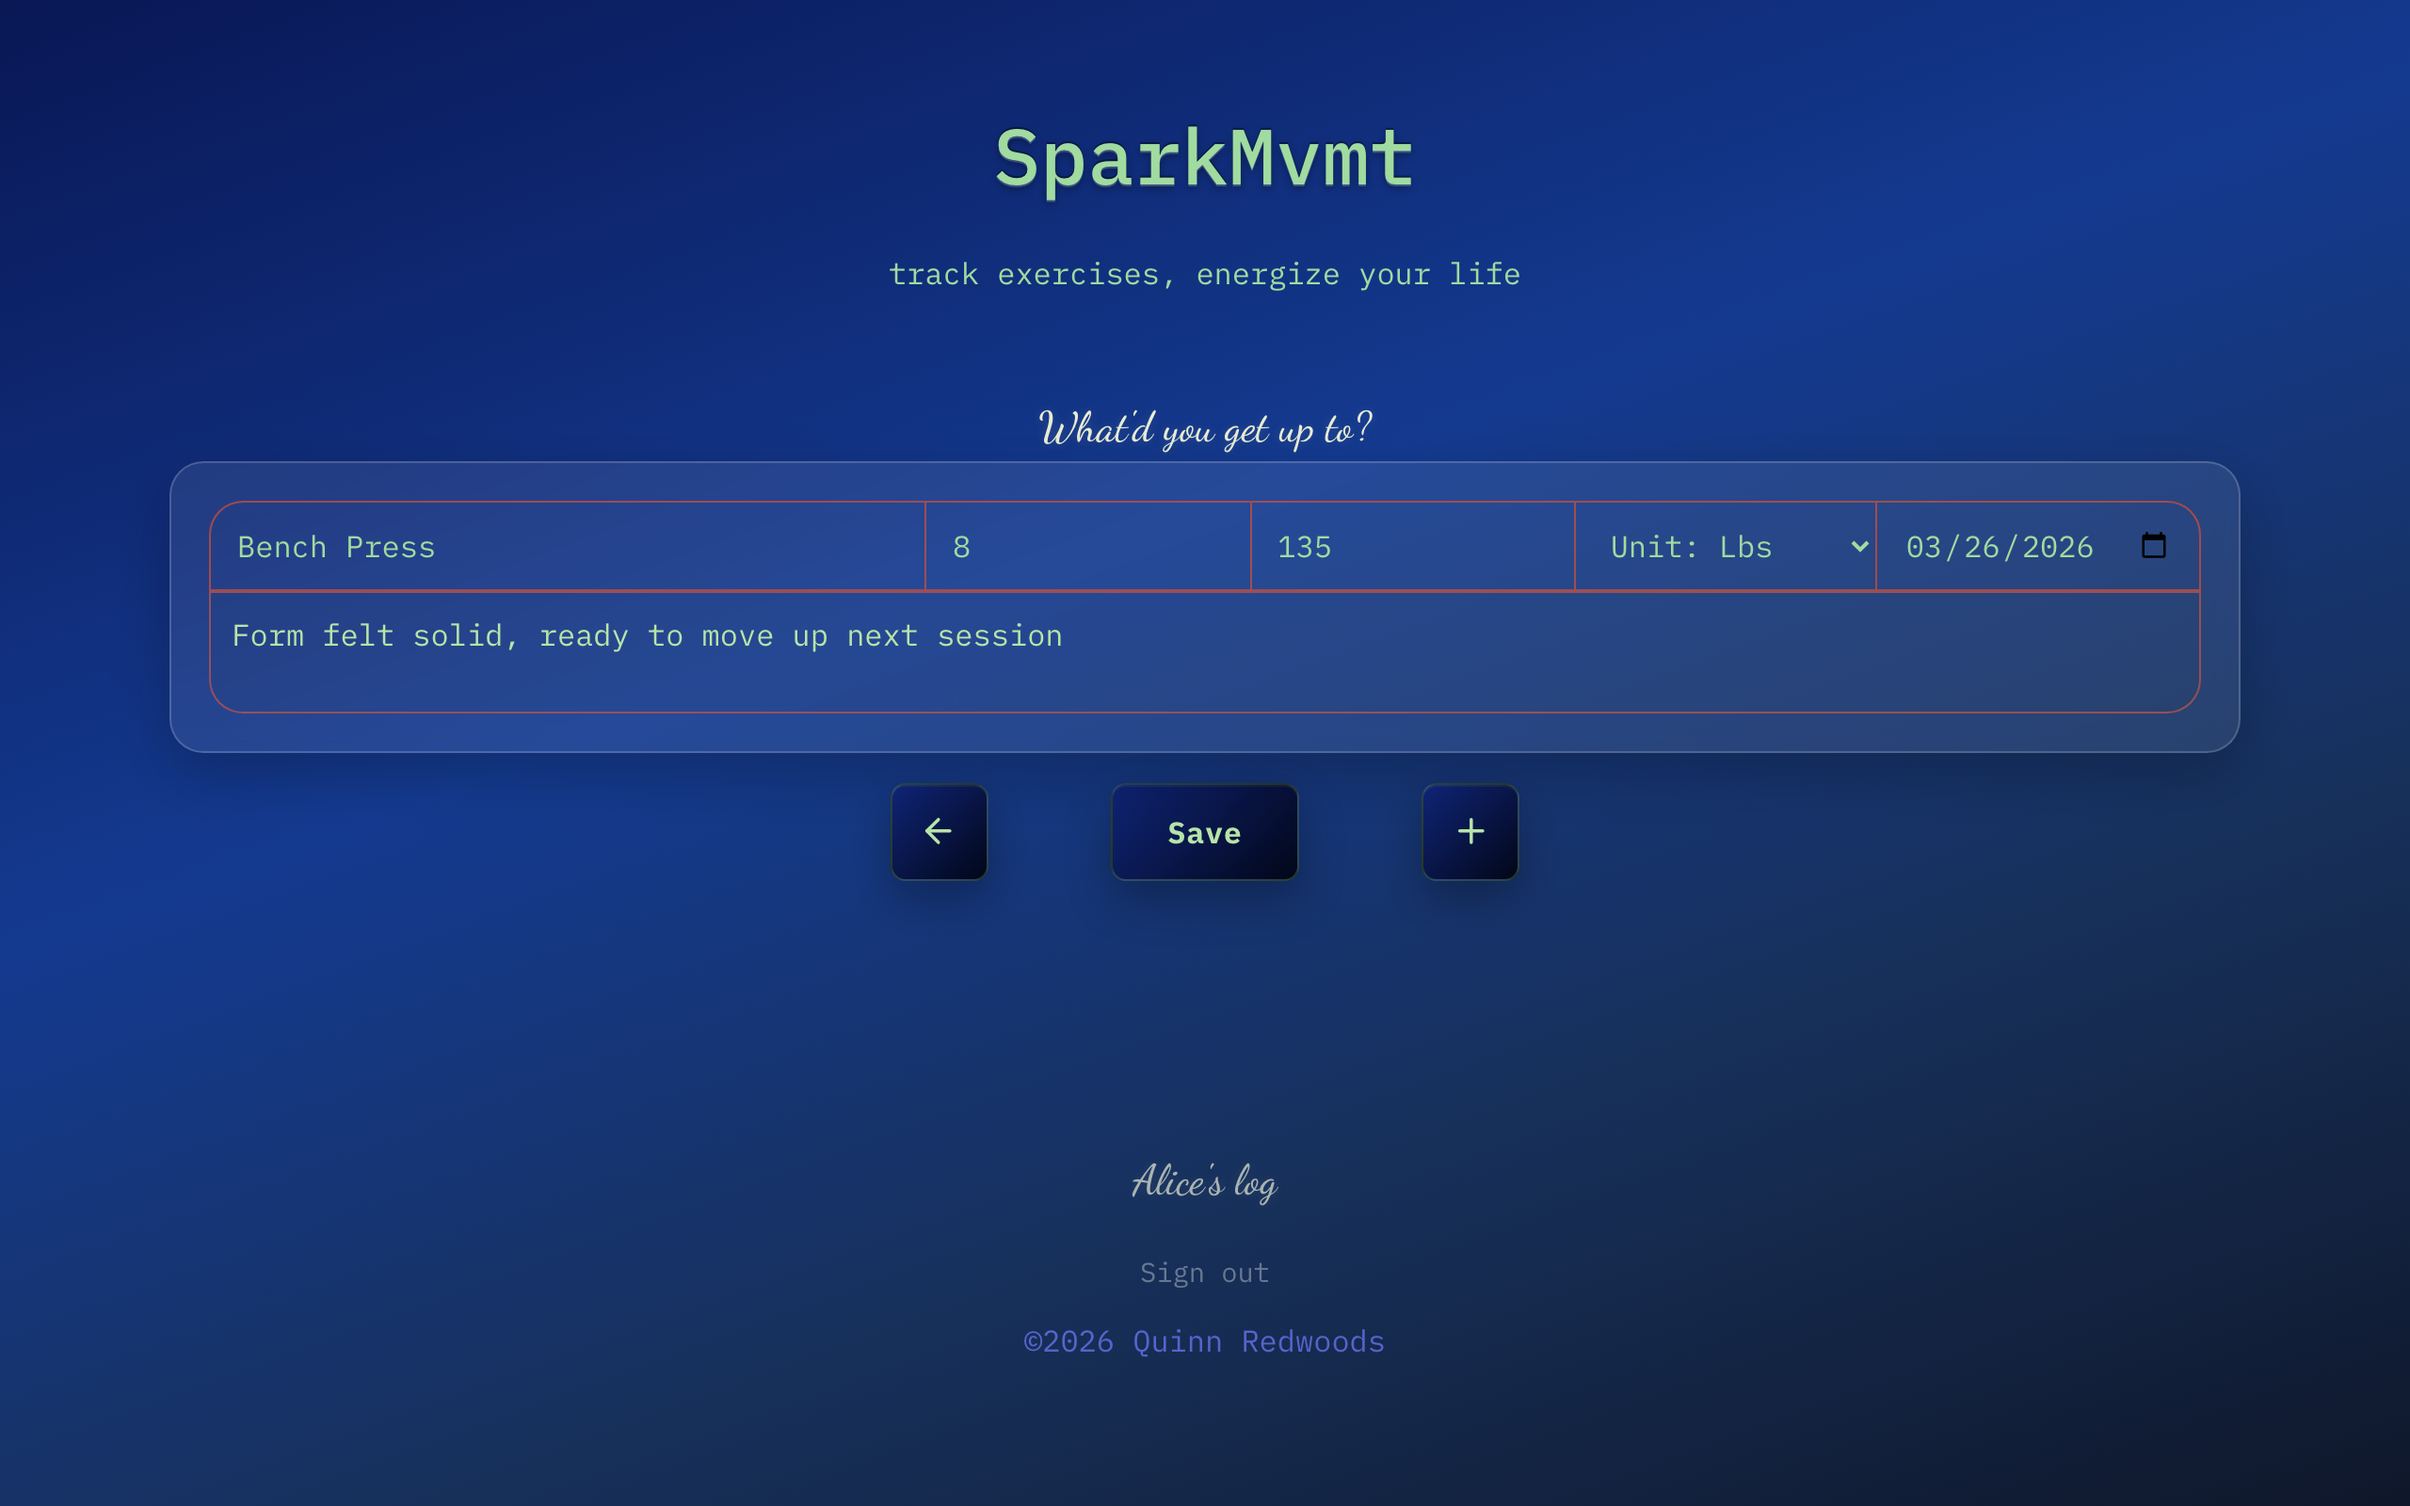
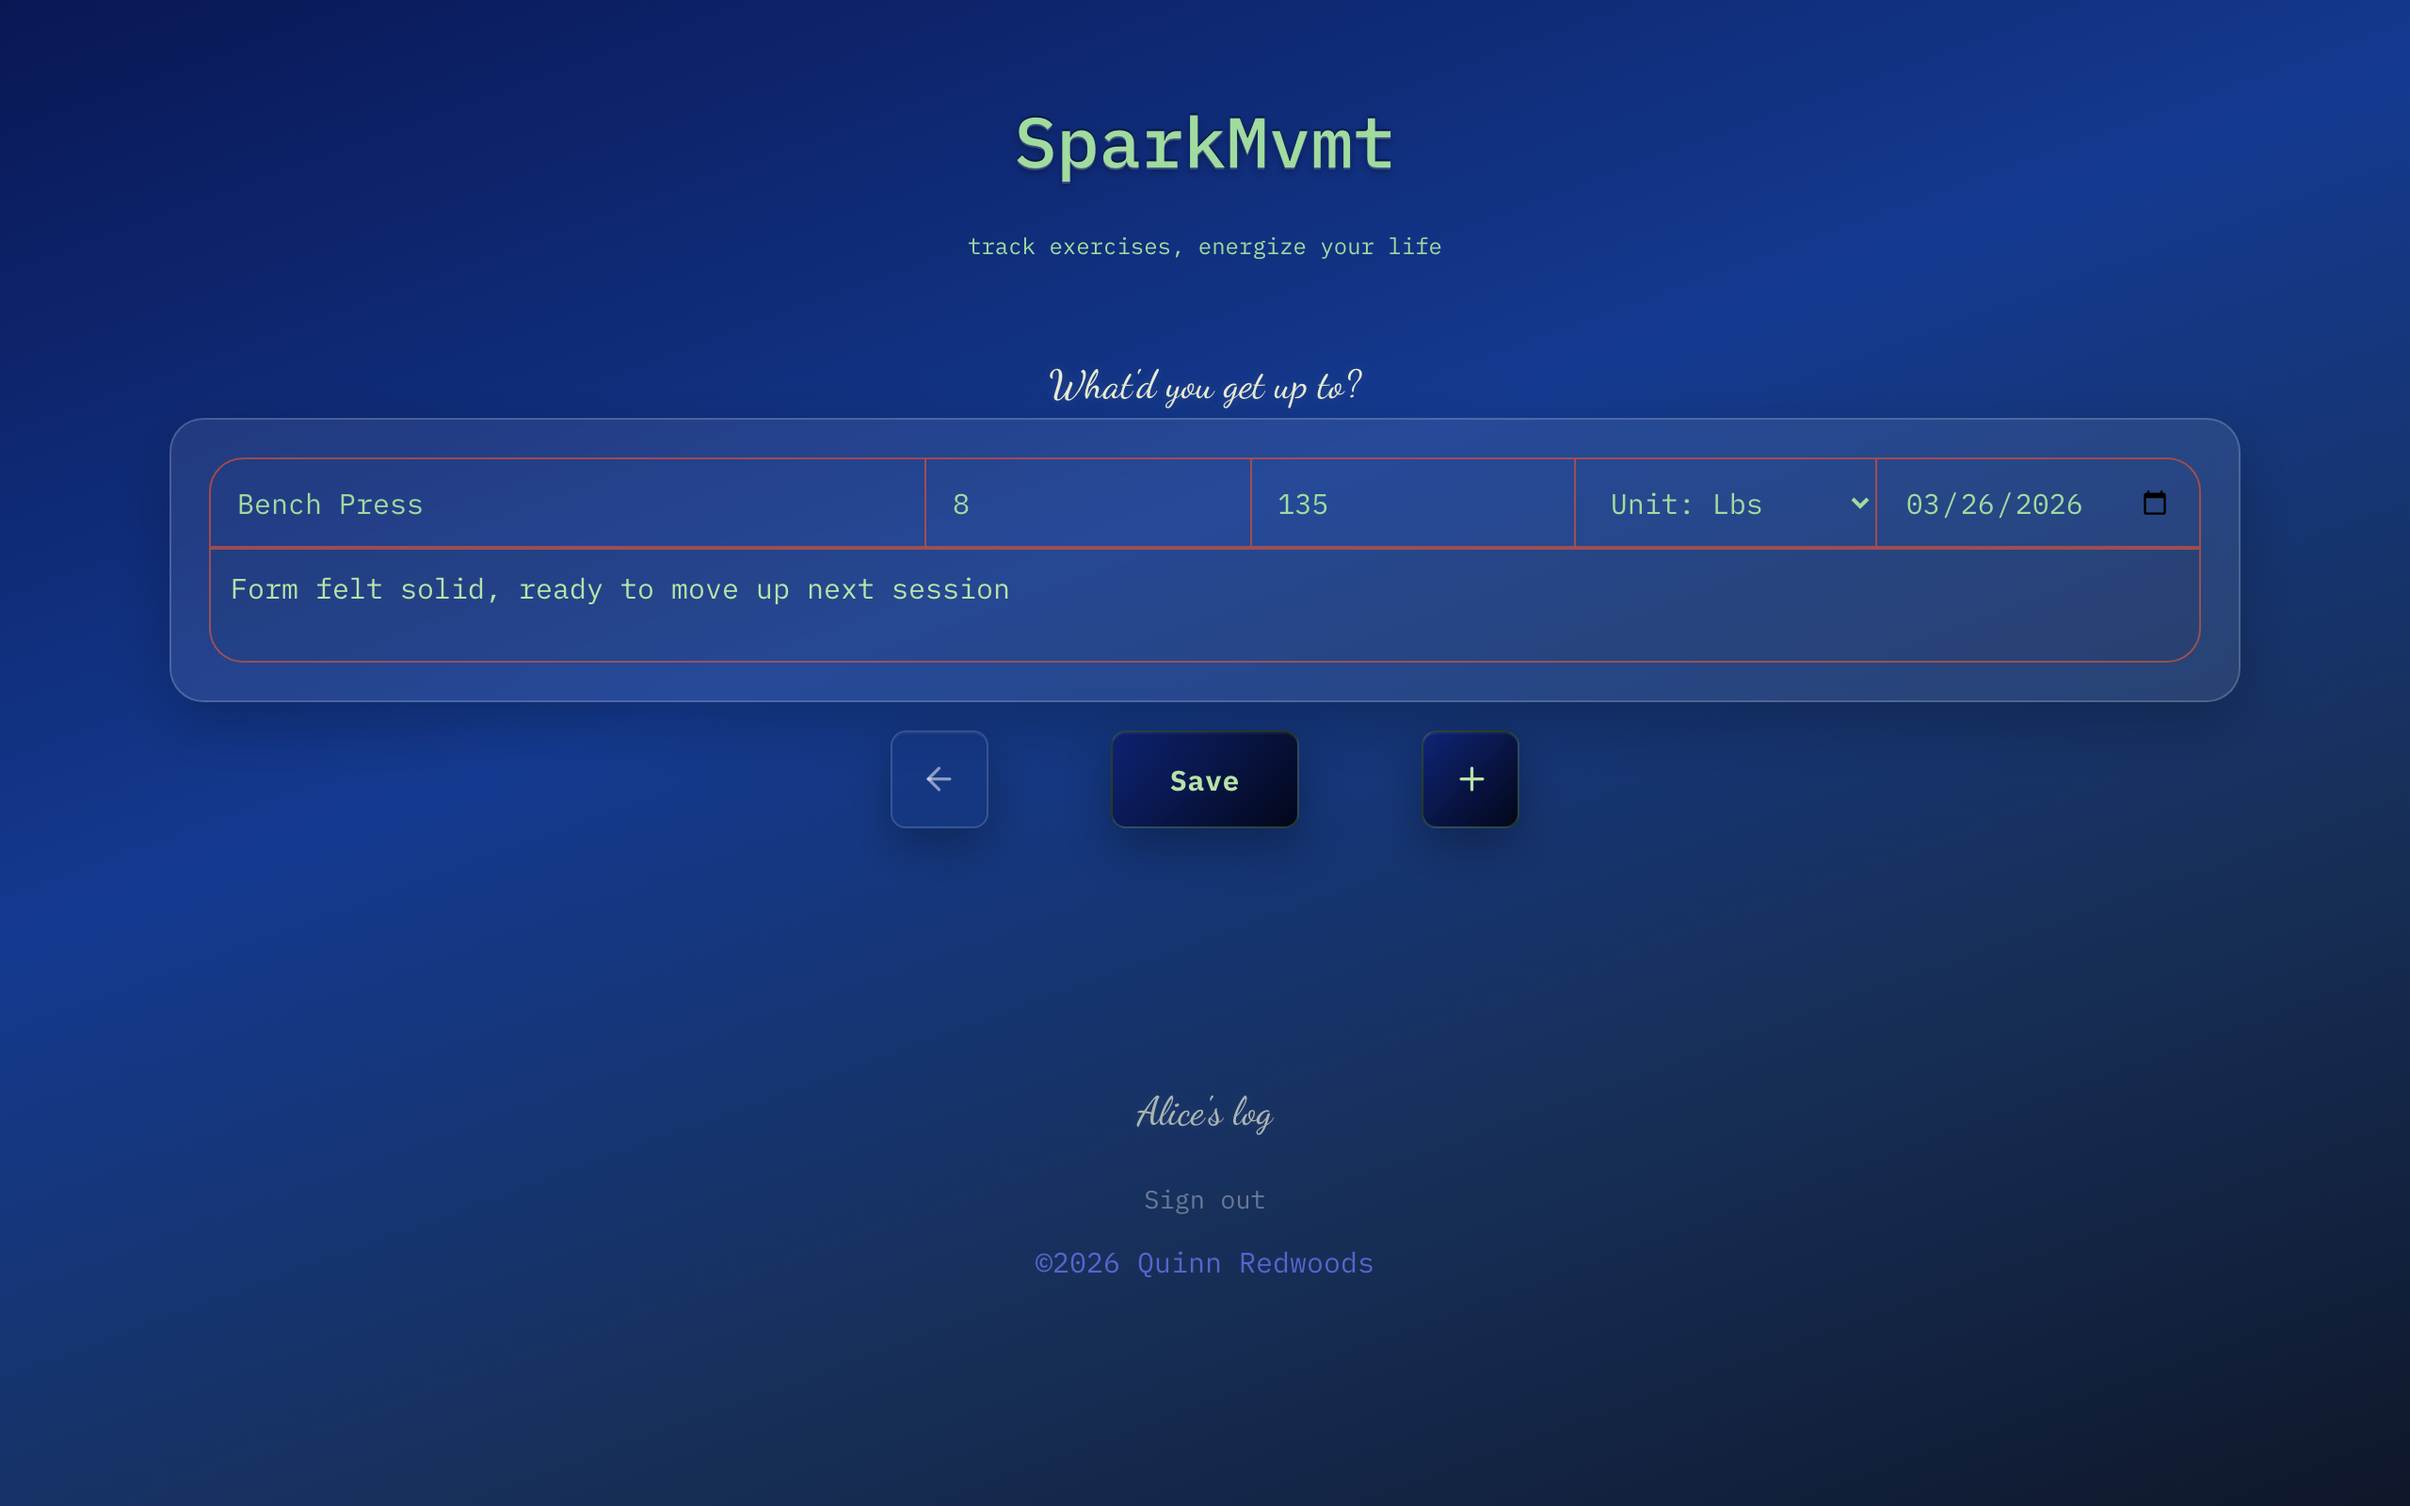
Align auth page with app branding, default to signup
Auth card, inputs, and buttons now use the same salmon/navy/green
palette as the rest of the app. Default view is signup instead of
login, with muted submit button until form is complete. Added k6
load test line to README. Updated E2E tests and screenshots.

diff --git a/frontend/src/App.css b/frontend/src/App.css
@@ -1073,21 +1073,42 @@ footer .copyright {
 }
 
 .demo-btn {
-  padding: 0.65rem 1.6rem;
+  min-height: 52px;
+  padding: 0.6em 1.6em;
+  font-size: 1rem;
   border-radius: 8px;
-  border: 1px solid rgba(144, 238, 144, 0.25);
-  background: transparent;
-  color: #90ee90;
+  border: 1px solid rgba(163, 230, 53, 0.22);
   font-size: 0.95rem;
-  font-weight: 600;
+  font-weight: 700;
   font-family: inherit;
+  letter-spacing: 0.02em;
+  background: linear-gradient(
+    135deg,
+    rgba(14, 35, 118, 0.96),
+    rgba(2, 6, 23, 0.98)
+  );
+  color: #b7e4a8;
   cursor: pointer;
-  transition: all 0.2s ease;
+  box-shadow:
+    0 10px 24px rgba(0, 0, 0, 0.28),
+    inset 0 1px 0 rgba(255, 255, 255, 0.05);
+  transition:
+    transform 0.18s ease,
+    box-shadow 0.22s ease,
+    border-color 0.22s ease,
+    background 0.22s ease,
+    color 0.22s ease;
 }
 
 .demo-btn:hover:not(:disabled) {
-  background: rgba(144, 238, 144, 0.1);
-  border-color: rgba(144, 238, 144, 0.45);
+  transform: translateY(-2px);
+  border-color: rgba(163, 230, 53, 0.42);
+  color: #d9f99d;
+  background: linear-gradient(135deg, salmon, rgb(18, 18, 162));
+  box-shadow:
+    0 14px 30px rgba(0, 0, 0, 0.34),
+    0 0 0 1px rgba(163, 230, 53, 0.08),
+    0 0 18px rgba(163, 230, 53, 0.12);
 }
 
 .demo-btn:disabled {
@@ -1096,11 +1117,12 @@ footer .copyright {
 }
 
 .auth-card {
-  background: rgba(255, 255, 255, 0.06);
-  backdrop-filter: blur(20px);
-  -webkit-backdrop-filter: blur(20px);
-  border: 1px solid rgba(255, 255, 255, 0.1);
-  border-radius: 16px;
+  background: rgba(255, 255, 255, 0.08);
+  border: 1px solid rgba(255, 255, 255, 0.18);
+  border-radius: 18px;
+  backdrop-filter: blur(6px);
+  -webkit-backdrop-filter: blur(6px);
+  box-shadow: 0 12px 32px rgba(0, 0, 0, 0.22);
   padding: 2rem 1.5rem;
   width: 100%;
   max-width: min(400px, 100vw - 6em - 2rem);
@@ -1109,14 +1131,14 @@ footer .copyright {
 }
 
 .auth-card h2 {
-  color: #e0e0e0;
+  color: rgb(160, 219, 160);
   font-size: 1.5rem;
   margin: 0 0 0.3rem 0;
   font-weight: 600;
 }
 
 .auth-subtitle {
-  color: rgba(255, 255, 255, 0.5);
+  color: #cbd5e1;
   font-size: 0.9rem;
   margin: 0 0 1.8rem 0;
 }
@@ -1138,32 +1160,38 @@ footer .copyright {
 }
 
 .auth-form input {
-  background: rgba(255, 255, 255, 0.06);
-  border: 1px solid rgba(255, 255, 255, 0.12);
+  background-color: inherit;
+  border: 1px solid rgba(250, 128, 114, 0.4);
   border-radius: 8px;
   padding: 0.75rem 1rem;
-  color: #e0e0e0;
+  color: inherit;
   font-size: 0.95rem;
   font-family: inherit;
   outline: none;
-  transition: border-color 0.2s ease;
+  transition:
+    border-color 0.2s ease,
+    box-shadow 0.2s ease,
+    background 0.2s ease;
 }
 
 .auth-form input::placeholder {
-  color: rgba(255, 255, 255, 0.35);
+  color: #64748b;
 }
 
 .auth-form input:-webkit-autofill,
 .auth-form input:-webkit-autofill:hover,
 .auth-form input:-webkit-autofill:focus {
-  -webkit-box-shadow: 0 0 0 1000px rgba(15, 23, 42, 0.97) inset;
-  -webkit-text-fill-color: #e0e0e0;
-  caret-color: #e0e0e0;
+  -webkit-box-shadow: 0 0 0 1000px rgba(20, 58, 144, 0.85) inset;
+  -webkit-text-fill-color: rgb(160, 219, 160);
+  caret-color: rgb(160, 219, 160);
   transition: background-color 5000s ease-in-out 0s;
 }
 
 .auth-form input:focus {
-  border-color: rgba(144, 238, 144, 0.4);
+  background-color: rgba(8, 8, 8, 0.18);
+  border: 1px solid rgba(255, 255, 255, 0.22);
+  color: #b7e4a8;
+  box-shadow: 0 0 0 1px rgba(163, 230, 53, 0.18);
 }
 
 .name-row {
@@ -1192,7 +1220,7 @@ footer .copyright {
   transform: translateY(-50%);
   background: none;
   border: none;
-  color: rgba(255, 255, 255, 0.35);
+  color: #64748b;
   cursor: pointer;
   padding: 0.25rem;
   display: flex;
@@ -1201,7 +1229,7 @@ footer .copyright {
 }
 
 .eye-toggle:hover {
-  color: rgba(255, 255, 255, 0.7);
+  color: #b7e4a8;
 }
 
 .eye-toggle:active {
@@ -1210,21 +1238,47 @@ footer .copyright {
 }
 
 .auth-submit {
+  align-self: center;
+  min-height: 52px;
   margin-top: 0.5rem;
-  padding: 0.75rem;
+  padding: 0.6em 1.2em;
   border-radius: 8px;
-  border: none;
-  background: rgba(144, 238, 144, 0.15);
-  color: #90ee90;
+  border: 1px solid rgba(163, 230, 53, 0.22);
   font-size: 1rem;
-  font-weight: 600;
+  font-weight: 700;
   font-family: inherit;
+  letter-spacing: 0.02em;
+  background: linear-gradient(
+    135deg,
+    rgba(14, 35, 118, 0.96),
+    rgba(2, 6, 23, 0.98)
+  );
+  color: #b7e4a8;
   cursor: pointer;
-  transition: all 0.2s ease;
+  box-shadow:
+    0 10px 24px rgba(0, 0, 0, 0.28),
+    inset 0 1px 0 rgba(255, 255, 255, 0.05);
+  transition:
+    transform 0.18s ease,
+    box-shadow 0.22s ease,
+    border-color 0.22s ease,
+    background 0.22s ease,
+    color 0.22s ease;
 }
 
 .auth-submit:hover:not(:disabled) {
-  background: rgba(144, 238, 144, 0.25);
+  transform: translateY(-2px);
+  border-color: rgba(163, 230, 53, 0.42);
+  color: #d9f99d;
+  background: linear-gradient(135deg, salmon, rgb(18, 18, 162));
+  box-shadow:
+    0 14px 30px rgba(0, 0, 0, 0.34),
+    0 0 0 1px rgba(163, 230, 53, 0.08),
+    0 0 18px rgba(163, 230, 53, 0.12);
+}
+
+.auth-submit--muted {
+  color: rgba(255, 255, 255, 0.5);
 }
 
 .auth-submit:disabled {
@@ -1252,7 +1306,7 @@ footer .copyright {
 }
 
 .rule-pass {
-  color: #90ee90;
+  color: #b7e4a8;
 }
 
 .rule-pass::before {
@@ -1277,7 +1331,7 @@ footer .copyright {
 }
 
 .age-confirm input[type="checkbox"] {
-  accent-color: #90ee90;
+  accent-color: #b7e4a8;
   width: 16px;
   height: 16px;
   cursor: pointer;
@@ -1292,7 +1346,7 @@ footer .copyright {
 .auth-toggle-btn {
   background: none;
   border: none;
-  color: #90ee90;
+  color: #b7e4a8;
   cursor: pointer;
   font-family: inherit;
   font-size: 0.85rem;
@@ -1302,7 +1356,7 @@ footer .copyright {
 }
 
 .auth-toggle-btn:hover {
-  color: #b0ffb0;
+  color: #d9f99d;
 }
 
 .exercises-loading {
@@ -1323,7 +1377,7 @@ footer .copyright {
   width: 32px;
   height: 32px;
   border: 3px solid rgba(255, 255, 255, 0.1);
-  border-top-color: rgba(144, 238, 144, 0.5);
+  border-top-color: rgba(163, 230, 53, 0.5);
   border-radius: 50%;
   animation: spin 0.8s linear infinite;
 }

diff --git a/frontend/src/pages/LoginPage.jsx b/frontend/src/pages/LoginPage.jsx
@@ -2,7 +2,7 @@ import { useState } from "react";
 import { login, signup, startDemo } from "../utils/api";
 
 export default function LoginPage({ onAuth }) {
-  const [isSignup, setIsSignup] = useState(false);
+  const [isSignup, setIsSignup] = useState(true);
   const [firstName, setFirstName] = useState("");
   const [lastName, setLastName] = useState("");
   const [email, setEmail] = useState("");
@@ -15,6 +15,12 @@ export default function LoginPage({ onAuth }) {
   const [ageConfirmed, setAgeConfirmed] = useState(false);
   const [passwordFocused, setPasswordFocused] = useState(false);
   const [demoLoading, setDemoLoading] = useState(false);
+
+  const isFormComplete = isSignup
+    ? (firstName.trim() && lastName.trim() && /^[^\s@]+@[^\s@]+\.[^\s@]+$/.test(email.trim())
+      && password.length >= 8 && /[A-Z]/.test(password) && /[a-z]/.test(password) && /[0-9]/.test(password)
+      && password === confirmPassword && ageConfirmed)
+    : (email.trim() && password);
 
   const handleSubmit = async (e) => {
     e.preventDefault();
@@ -121,7 +127,7 @@ export default function LoginPage({ onAuth }) {
 
         {error && <div className="auth-error">{error}</div>}
 
-        <form className="auth-form" onSubmit={handleSubmit}>
+        <form className="auth-form" onSubmit={handleSubmit} noValidate>
           {isSignup && (
             <div className="name-row">
               <input
@@ -241,7 +247,7 @@ export default function LoginPage({ onAuth }) {
             </label>
           )}
           <button
-            className="auth-submit"
+            className={`auth-submit${isFormComplete ? "" : " auth-submit--muted"}`}
             type="submit"
             disabled={loading}
           >

diff --git a/README.md b/README.md
@@ -6,8 +6,6 @@ Full-stack exercise tracker where users log, edit, duplicate, and delete workout
 
 React + Vite SPA on S3 + CloudFront, Dockerized Express API on EC2 Auto Scaling Group behind an ALB with ACM TLS termination. Secrets via SSM Parameter Store, IAM role-based ECR auth, JWT token rotation with Argon2, object-level authorization, 120 automated tests, and CI/CD via GitHub Actions.
 
-**Just added:** CI/CD pipeline — unified GitHub Actions workflow with change detection, OIDC auth to AWS, native ARM Docker builds, and zero-downtime rolling deploys.
-
 ## Architecture
 
 ```
@@ -85,6 +83,7 @@ CI/CD: GitHub Actions → test → build (ARM) → push ECR → ASG rolling depl
 - ECR image pipeline with IAM instance role authentication
 - 120 automated tests: 91 backend (node:test + supertest + mongodb-memory-server) and 29 E2E (Playwright)
 - CI/CD via GitHub Actions — OIDC auth (no stored AWS keys), change detection gates deploys, native ARM builds with Docker layer caching, zero-downtime ASG instance refresh with auto-rollback, post-deploy smoke test
+- Load tested with k6 to validate horizontal scaling handles CPU-bound load which fails on single instance
 
 ---
 
